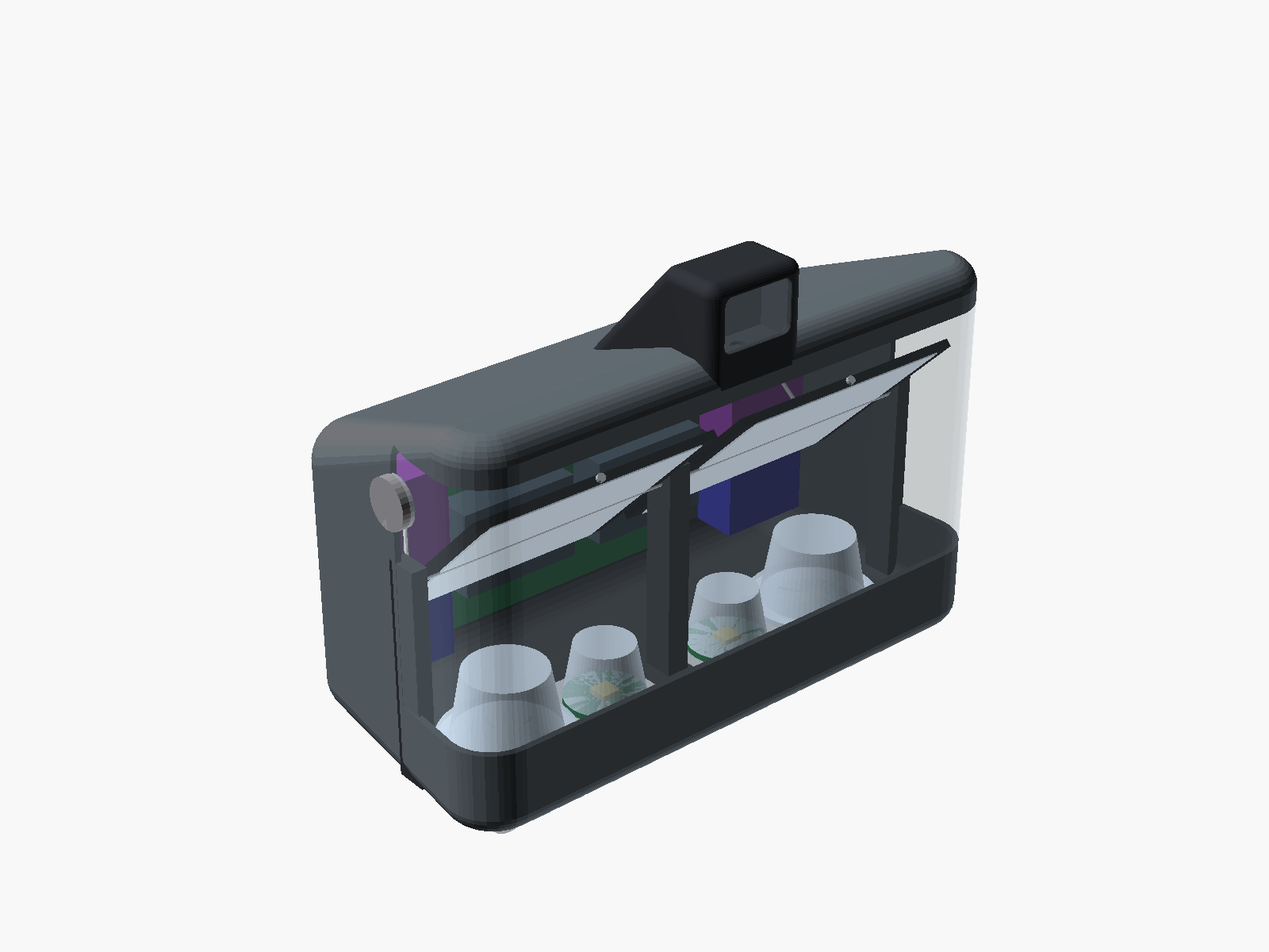
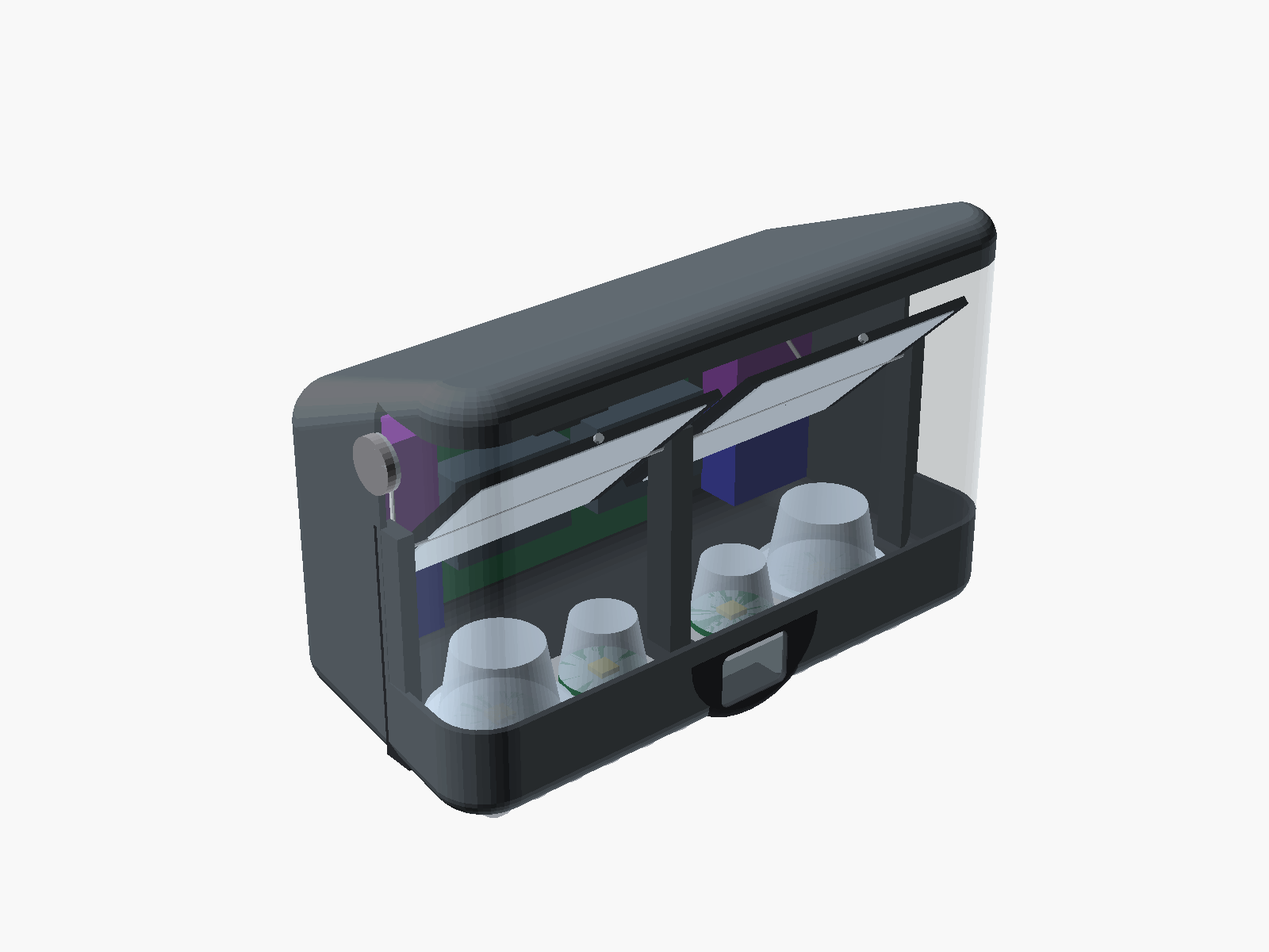
Move the lidar under the beams, behind a rounded chin
Owner review (2026-11-21): the roof pod looked like a box; move the lidar
underneath and round the casing into a hump.

- The TFS20-L now sits inside the nose, on the floor between the two
  modules and below the clear piece, looking out through its own window.
  The 12 mm gap between the heatsinks is too narrow, but the 15 mm strip
  ahead of the fins fits it.
- A shallow U-shaped chin (42 mm wide, 2 mm below the underside) keeps
  the window face flat over the rounded bottom edge and fairs into the
  underside on both sides; it ends ahead of the heatsink fins.
- Head height back to ~112 mm with the fins (128 mm at the roof pod);
  head ~331 g (the old pod was modelled solid, so part of the 10 g saving
  is the earlier figure overcounting). All C-PKG checks pass.
- New check C-PKG-19; B-THM-03 now measures the lidar inside the head.
- Design §5/§9, seal table, test plan, BOM, README, site and renders
  updated.

Changed region(s): [[0.2188, 0.2158, 0.8125, 0.8942], [0.3125, 0.8017, 0.3438, 0.8325]]

diff --git a/docs/index.html b/docs/index.html
@@ -185,7 +185,7 @@ footer p { margin: 0 0 8px; max-width: 80ch; }
     <div class="status">Concept design: nothing built or tested yet. Every figure is an estimate.</div>
   </div>
   <figure class="render" style="margin:0">
-    <img src="img/v4-three-quarter.png" alt="Packaging model of the head: a rounded light bar with two mirror modules side by side, a small lidar pod on the roof and one clear piece wrapping the front and sides" width="1600" height="1200">
+    <img src="img/v4-three-quarter.png" alt="Packaging model of the head: a rounded light bar with two mirror modules side by side, the lidar in a rounded chin under the beams and one clear piece wrapping the front and sides" width="1600" height="1200">
     <figcaption>Packaging model, layout v4 · OpenSCAD</figcaption>
   </figure>
 </header>
@@ -288,14 +288,14 @@ footer p { margin: 0 0 8px; max-width: 80ch; }
   <div class="wrap">
     <div class="eyebrow">Design · layout v4</div>
     <h2>A rounded light bar, about 150 mm wide</h2>
-    <p class="intro">The packaging model checks that everything fits, sweeps and stays under the weight limit before any part is bought. Layout v4 was chosen on 2026-11-21 over a single-mirror head (v3) with fixed cornering lights. After reviewing the renders the same day, a much smaller lidar moved to a pod on the roof, so the two modules sit side by side and the body narrowed from 200 to about 151 mm.</p>
+    <p class="intro">The packaging model checks that everything fits, sweeps and stays under the weight limit before any part is bought. Layout v4 was chosen on 2026-11-21 over a single-mirror head (v3) with fixed cornering lights. After reviewing the renders the same day, a much smaller lidar moved low into the nose, under the beams, so the two modules sit side by side and the body narrowed from 200 to about 151 mm.</p>
     <div class="gallery">
       <figure><div class="shot"><img src="img/v4-turning.png" alt="Model in a left turn: the left beam swung outward, the right beam straight ahead" loading="lazy" width="1600" height="1200"></div><figcaption><b>Left turn.</b> The left beam swings 25° out through the clear side; the right one stays straight.</figcaption></figure>
-      <figure><div class="shot"><img src="img/v4-top.png" alt="Top view in a left turn: left beam swung out, right beam straight" loading="lazy" width="1600" height="1200"></div><figcaption><b>From above, left turn.</b> Two modules side by side, the lidar pod on the roof and the servos in the back slot.</figcaption></figure>
+      <figure><div class="shot"><img src="img/v4-top.png" alt="Top view in a left turn: left beam swung out, right beam straight" loading="lazy" width="1600" height="1200"></div><figcaption><b>From above, left turn.</b> Two modules side by side around the centre post, and the servos in the back slot.</figcaption></figure>
       <figure><div class="shot"><img src="img/v4-cutaway.png" alt="Cut-away side view showing LED, optic, mirror and heatsink" loading="lazy" width="1600" height="1200"></div><figcaption><b>Cut-away.</b> LED facing up, optic, 45° mirror, heatsink floor.</figcaption></figure>
       <figure><div class="shot"><img src="img/v4-under.png" alt="Underside with two finned heatsinks" loading="lazy" width="1600" height="1200"></div><figcaption><b>Underneath.</b> Two aluminium heatsinks, fins fore-aft in the airflow.</figcaption></figure>
       <figure><div class="shot"><img src="img/v4-on-wheel.png" alt="The head mounted on a generic wheel for scale" loading="lazy" width="1600" height="1200"></div><figcaption><b>On a wheel.</b> Generic 16-inch shell, for scale.</figcaption></figure>
-      <figure><div class="shot"><img src="img/v4-front.png" alt="Front view of the head" loading="lazy" width="1600" height="1200"></div><figcaption><b>Front.</b> Low beam outside, spot inside, behind one curved clear piece; the lidar looks out of its roof pod.</figcaption></figure>
+      <figure><div class="shot"><img src="img/v4-front.png" alt="Front view of the head" loading="lazy" width="1600" height="1200"></div><figcaption><b>Front.</b> Low beam outside, spot inside, behind one curved clear piece; the lidar looks out of the rounded chin below them.</figcaption></figure>
       <figure><div class="shot"><img src="img/v4-exploded.png" alt="Exploded view: shell lifted off, clear piece and lidar forward, servos and board back, optics and heatsinks below" loading="lazy" width="1600" height="1200"></div><figcaption><b>Exploded.</b> Shell, clear piece, lidar, mirrors, servos and board, optics, heatsinks.</figcaption></figure>
     </div>
   </div>
@@ -341,8 +341,8 @@ footer p { margin: 0 0 8px; max-width: 80ch; }
       <div class="panel budget">
         <h3>Limits, with the lidar fitted</h3>
         <div class="meter">
-          <div class="row"><span>Head weight</span><span>~341 / 400 g</span></div>
-          <div class="bar" role="img" aria-label="341 of 400 grams"><i style="width:85.25%"></i><b></b></div>
+          <div class="row"><span>Head weight</span><span>~331 / 400 g</span></div>
+          <div class="bar" role="img" aria-label="331 of 400 grams"><i style="width:82.75%"></i><b></b></div>
           <small>Printed parts measured from the model; bought parts from datasheets. Only 1 g of margin: the custom PCB should win some back.</small>
         </div>
         <div class="meter">
@@ -368,7 +368,7 @@ footer p { margin: 0 0 8px; max-width: 80ch; }
     <div class="parts">
       <div class="part"><div class="role">Brain</div><div class="name">Seeed XIAO ESP32-S3</div><p>Control loop, BLE remote, Wi-Fi calibration page.</p></div>
       <div class="part"><div class="role">Sensor</div><div class="name">LSM6DSO32 IMU</div><p>6-axis, ±32 g, so crash detection doesn't saturate.</p></div>
-      <div class="part"><div class="role">Look-ahead</div><div class="name">Benewake TFS20-L lidar</div><p>A 1.35 g sensor in a roof pod that measures the road slope ahead. Optional: everything works without it.</p></div>
+      <div class="part"><div class="role">Look-ahead</div><div class="name">Benewake TFS20-L lidar</div><p>A 1.35 g sensor low in the nose that measures the road slope ahead. Optional: everything works without it.</p></div>
       <div class="part"><div class="role">Light</div><div class="name">4 × Cree XP-L HI</div><p>Two behind FILIPPA cutoff optics, two behind Carclo spots.</p></div>
       <div class="part"><div class="role">Drivers</div><div class="name">2 × BuckBlock 2.1 A</div><p>Run at full current if the MCU dies: the light stays on.</p></div>
       <div class="part"><div class="role">Steering</div><div class="name">4 × 5 g servos, 2 mirrors</div><p>Front-surface glass on printed two-axis gimbals.</p></div>

diff --git a/docs/design.md b/docs/design.md
@@ -3,7 +3,7 @@
 All figures are design estimates until they're verified on a prototype.
 The parts list with links is in [`../hardware/BOM.md`](../hardware/BOM.md).
 
-**Layout: v4 adopted (owner's decision, 2026-11-21).** Two mirror modules, each steering one FILIPPA low beam and one spot on a 2-axis gimbal (pitch for levelling, yaw for turns), four 5 g servos, the modules side by side around a centre post, one clear thermoformed piece wrapping the front and both sides, and a small TFS20-L lidar in a pod on the roof (since the owner's render review, 2026-11-21: body about 151 mm wide, owner's target 150 mm). No cornering lights, toe-out wedges or brow. The v4 layout, its checks and its turning behaviour are in §5 ("v4"). Earlier sections still describe v3's single mirror, cornering lights and toe-out where marked *(v3)*; they're kept as the record of how the design got here.
+**Layout: v4 adopted (owner's decision, 2026-11-21).** Two mirror modules, each steering one FILIPPA low beam and one spot on a 2-axis gimbal (pitch for levelling, yaw for turns), four 5 g servos, the modules side by side around a centre post, one clear thermoformed piece wrapping the front and both sides, and a small TFS20-L lidar low in the nose, under the beams (since the owner's render review, 2026-11-21: body about 151 mm wide, owner's target 150 mm). No cornering lights, toe-out wedges or brow. The v4 layout, its checks and its turning behaviour are in §5 ("v4"). Earlier sections still describe v3's single mirror, cornering lights and toe-out where marked *(v3)*; they're kept as the record of how the design got here.
 
 **Firm constraints** (owner's decision, 2026-11-20). Changing one needs the owner's approval:
 - Only the mirrors move. The LEDs and heatsinks stay fixed.
@@ -227,7 +227,7 @@ Sources: [EUC forum: charging a laptop from a wheel](https://forum.electricunicy
 
 *v4 at 150 mm: owner's review of the renders (2026-11-21).* The owner reviewed the v4 renders and decided:
 - **Width:** the body should be narrower, ideally **150 mm** wide (owner's target, not a firm constraint).
-- **Lidar:** the **Benewake TFS20-L** replaces the TF02-Pro, in a **small pod on the roof** (§9). With no lidar bay between them, the two mirror modules sit side by side.
+- **Lidar:** the **Benewake TFS20-L** replaces the TF02-Pro (§9). With no lidar bay between them, the two mirror modules sit side by side. It first went in a small pod on the roof; the owner then had it moved **under the beams**, behind a rounded chin (below).
 - **Clear sides stay fully clear**, showing the mechanism. One piece now runs across the whole front and round both corners, about 200 mm developed length.
 - **The exposed fins under the body are fine.**
 - **An exploded view** is added to the renders.
@@ -240,10 +240,17 @@ What changed in the model (`cad/headlight-v4.scad`):
   - Body taper 8 → 4 mm each side, so the gimbal frames' rear-outer corners clear the side walls.
   - Clear-corner radius 18 → 12 mm (still easy to drape-form in 1.5 mm PC), so the frames' front-outer corners clear the corner.
   - Front clearance 4 → 5 mm. The stricter skin check found each mirror's outer end touching the inside of the front wall at full outward yaw and forward tilt. The 200 mm model had the same touch, hidden because the check only looked at the outer skin.
-- **Stricter skin check (C-PKG-18):** optics, servos, board and mirrors are now checked against the inner skin, so they also clear the wall. The lidar is checked against its pod.
-- **Model result:** about **151 × 72 × 95 mm** body, down from 200 mm, and 112 mm tall with the heatsink fins. The roof pod is 26 mm wide and 46 mm long (faired into the roof), and adds about 18 mm of height at the front of the roof. Head mass is **~341 g** with the lidar (C-MASS-01), down from ~399 g: about 48 g from the lidar and 10 g from the smaller shell.
+- **Stricter skin check (C-PKG-18):** optics, servos, board and mirrors are now checked against the inner skin, so they also clear the wall. The lidar is checked against the outer skin (body plus chin), since its window cuts through the wall.
+- **Model result:** about **151 × 72 × 95 mm** body, down from 200 mm, and 112 mm tall with the heatsink fins. With the lidar under the beams nothing rises above the roof (the roof pod first tried added 18 mm). Head mass is **~331 g** with the lidar (C-MASS-01), down from ~399 g: about 48 g from the lidar, 10 g from the smaller shell, and 10 g from dropping the roof pod first tried (the model drew that pod as solid plastic round the lidar, so part of the last 10 g is the earlier figure overcounting).
 - **What sets the width now:** the two gimbals, the centre post and the outer posts, not the beams. The last millimetre to 150 would come from the outer posts; the 2.5° trim no longer affects the width.
-- **Checks:** C-PKG-14 and 16 are retired (they checked the lidar bay). C-PKG-15 now checks that the spots' light clears the centre post. C-PKG-18 checks the skin with the pod included.
+- **Checks:** C-PKG-14 and 16 are retired (they checked the lidar bay). C-PKG-15 now checks that the spots' light clears the centre post. C-PKG-18 checks the skin with the chin included. New C-PKG-19 checks the lidar in the nose (below).
+
+*Lidar under the beams (owner, 2026-11-21).* After seeing the roof pod as a box on the roof, the owner asked for the lidar to go underneath, with the casing rounded round it into a hump rather than a box.
+- **Where it fits:** the 12 mm gap between the two heatsinks is too narrow for the 21 mm sensor, but the strip of floor between the heatsink fins and the front wall is 15 mm deep. The lidar sits there, **inside the body** on the floor, centred between the modules and below the clear piece, looking out through its own small window in the front wall.
+- **The hump:** the body's bottom front edge is rounded (6 mm), which would cut across the bottom of the window. A shallow **chin**, a U shape seen from the front (about 42 mm wide, 10 mm deep, 2 mm below the underside), keeps the window face flat and fairs into the underside on both sides. It ends just ahead of the heatsink fins and stays far above their 16.5 mm depth, so the head is no taller: about **112 mm with the fins**, against 128 mm at the roof pod.
+- **Gains:** no roof pod or cable hole to seal (the lidar is inside the sealed body, behind one gasketed window), shaded from the sun, and a clean roof.
+- **Costs:** the lidar is now inside the head with the LED boards (spot optics about 8 mm away) and in front of the heatsinks, so its 60 °C limit depends on the internal air (B-THM-03 now measures it there). It sits about 110 mm lower, so the ray meets the road at a slightly shallower angle; the firmware learns the height `h` at calibration, so nothing changes there.
+- **C-PKG-19:** the lidar clears the spot optics, leaves at least 4 mm of wall between its window and the clear piece above it, and its chin ends ahead of the heatsink fins.
 
 **Waterproofing and vibration review (2026-11-21, v3 and v4).**
 
@@ -256,7 +263,7 @@ What changed in the model (`cad/headlight-v4.scad`):
 | Heatsink opening(s) in the floor, O-ring | 1 | 2 |
 | Service cover (top or back), O-ring | 1 | 1 |
 | Main window(s), gasket in bezel | 1 | 2 |
-| Lidar | in the brow, own gasket | roof pod window, gasket (TFS20-L isn't IP-rated, so the pod is sealed) |
+| Lidar | in the brow, own gasket | small window in the nose under the clear piece, gasket (TFS20-L isn't IP-rated, so it sits inside the sealed body) |
 | Cornering-light windows | 2 | 0 |
 | Gland, vent, button | 3 | 3 |
 | Total static seal length (model) | ~0.7 m | ~1.25 m |
@@ -277,7 +284,7 @@ v4 has fewer separate openings but about 80% more seal length, so more places fo
 - **5 g servos** have weaker, often plastic, gears. Metal-gear versions are preferred, with the 12 g ES08MD II as the fallback if B-MIR-02/05 show jitter.
 - **Electronics:** heavy parts (BuckBlocks, capacitors, the Pololu) held down with silicone; wires strain-relieved; the XIAO soldered rather than socketed; the STEMMA QT plug glued after test.
 - **Fasteners:** LED boards and metal parts with low-strength threadlocker. **Never threadlocker near the polycarbonate window or the PMMA optics**, because anaerobic threadlockers crack them; use nylon-insert nuts or screws with a nylon patch there.
-- **Lidar:** v3's TF02-Pro is clamped on a foam gasket and is IP65 itself. v4's TFS20-L isn't rated, so it sits behind a gasketed window in the sealed roof pod.
+- **Lidar:** v3's TF02-Pro is clamped on a foam gasket and is IP65 itself. v4's TFS20-L isn't rated, so it sits inside the sealed body, behind a gasketed window in the nose.
 - **Mount:** the 1/4"-20 joint can loosen under vibration: a lock washer on the metal adapter, and the leash always.
 
 *Verdict:* both layouts can be made waterproof to IP65 and vibration-resistant, because nothing moving passes through a wall. v4 carries more risk on both counts (longer seals, two-axis gimbals) and needs its extra tests passed before a ride.
@@ -383,12 +390,12 @@ Seven LEDC channels are used (four servos, two DIM, the ring LED) of the ESP32-S
 - **Range:** 0.2–9 m at 10% reflectivity in 100 klux sunlight, 12 m in the dark (TF02-Pro: 13.5 m). The aim point is about 8 m ahead, so the margin is thin; Benewake's datasheet versions disagree, and these are the more cautious figures.
 - **Other specs:** 100 Hz default (up to 250 Hz), FoV under 2°, 905 nm VCSEL, Class 1 eye-safe, -20 to +60 °C.
 - **Supply and interface:** 3.3 V only (not 5 V), ≤ 0.43 W, peak under 130 mA. I²C at address 0x10 by default, with 3.3 V logic like the XIAO, so the one-time UART mode switch the TF02-Pro needed goes away.
-- **Mounting:** on the **body** (never the mirror), in a small pod at the front of the roof, aimed about 3–5° below the beam axis.
-  - It has **no IP rating**, so it sits inside the sealed head behind its own small clear window, cut from the polycarbonate sheet and gasketed into the pod.
+- **Mounting:** on the **body** (never the mirror), low in the nose: on the floor between the two modules, below the clear piece, aimed about 3–5° below the beam axis (on the roof until the owner moved it under, 2026-11-21; §5). The model draws it level; the 3–5° wedge in its printed seat isn't modelled.
+  - It has **no IP rating**, so it sits inside the sealed head behind its own small clear window, cut from the polycarbonate sheet and gasketed into the front wall over a shallow rounded chin.
   - A divider between the two lenses, touching the window, stops the window reflecting the laser straight back into the receiver.
   - Range through the window is to be measured on the bench (B-LID-02).
-- **Lens face to check:** the model assumes the lenses are on the 21 × 15 face, which makes the pod about 18 mm tall. Check Benewake's dimension drawing before the pod is printed. If the lenses are on the 21 × 7.9 face, the pod can be about 7 mm lower.
-- **Temperature:** the pod is away from the heatsinks, but the 60 °C limit applies inside it on a hot, sunny day. To check in B-THM-03.
+- **Lens face to check:** the model assumes the lenses are on the 21 × 15 face, which makes the window 15 mm tall and needs the chin. Check Benewake's dimension drawing before the shell is printed. If the lenses are on the 21 × 7.9 face, the window is only 8 mm tall but the sensor is 15 mm deep, which reaches back over the heatsinks' front edge: C-PKG-19 has to be re-run and the seat moved.
+- **Temperature:** under the beams it's shaded from the sun, but it shares the head's internal air with the LED boards and sits just ahead of the heatsinks. The 60 °C limit applies there; to check in B-THM-03.
 - **Alternatives rejected:**
   - TFmini Plus: only about 4 m at 10% reflectivity.
   - TF-Luna: 2.5 m at 10%.
@@ -428,7 +435,7 @@ Seven LEDC channels are used (four servos, two DIM, the ring LED) of the ESP32-S
 - [ ] Hobby servo deadband and jitter after the 4:1 linkage. Is a gimbal BLDC needed (GBM2804 + SimpleFOC + AS5600)?
 - [ ] Does the ASA housing stay sealed over thermal cycles? Long-term creep at the screw bosses?
 - [ ] Real TFS20-L range and dropout rate on wet and dry asphalt at about 4° grazing angle, through its window (B-LID-01, B-LID-02). Only about 9 m at 10% in sunlight on paper, against an ~8 m aim point.
-- [ ] TFS20-L lens face (21 × 15 or 21 × 7.9) from the dimension drawing: sets the roof pod height.
+- [ ] TFS20-L lens face (21 × 15 or 21 × 7.9) from the dimension drawing: sets the window and chin in the nose (C-PKG-19).
 - [ ] Head weight on VHB mounts. Is the leash mandatory?
 - [ ] Two-axis gimbal backlash and ringing under EUC vibration (v4, B-MIR-05); 5 g servo gear durability.
 - [ ] Power-on flash: DIM floats until the firmware drives the 2N3904s, so both channels start at 2.1 A. Base pull-ups would stop it, but they also turn the light off if the MCU dies, which loses the full-on failsafe. Accept the flash, or find a way to keep both (e.g. an RC that holds the transistor on only for the first second)?
@@ -438,7 +445,7 @@ Seven LEDC channels are used (four servos, two DIM, the ring LED) of the ESP32-S
 - [ ] P6KE27A clamps at ~37.5 V, above the BuckBlock's 32 V maximum. Low risk with a 20 V bank, but a lower-clamp TVS would cover it.
 - [x] Cost over the limit: about $290 core + $98 lidar ≈ $388, against a $350 ceiling. Resolved 2026-11-20: the owner raised the limit to $450, so no parts change.
 - [x] **The flood has no cutoff.** Resolved 2026-11-21: the owner chose two LEDiL FILIPPA-STVZO cutoff optics with XP-L HI as the low beam (§3). A shield or masked mirror edge was rejected because a TIR beam isn't an image, so blocking part of it only dims it without making a sharp edge.
-- [ ] **Head weight against the 400 g limit** (raised from 350 g, owner, 2026-11-21): ~399 g with the TF02-Pro for v4 at 200 mm; ~341 g at 151 mm with the TFS20-L (2026-11-21), 59 g of margin (v3 was ~401 g). The custom PCB should add ~20 g of margin; the part masses are estimates until weighed (E-MNT-01).
+- [ ] **Head weight against the 400 g limit** (raised from 350 g, owner, 2026-11-21): ~399 g with the TF02-Pro for v4 at 200 mm; ~331 g at 151 mm with the TFS20-L under the beams (2026-11-21), 69 g of margin (v3 was ~401 g). The custom PCB should add ~20 g of margin; the part masses are estimates until weighed (E-MNT-01).
 - [ ] Heatsink sized for moving air (§8): confirm the riding temperature and the parked derating on the bench (B-THM-01).
 - [ ] FILIPPA with XP-L HI: focus height, cutoff sharpness and cutoff orientation are not in LEDiL's data. Bench tests B-OPT-05 and B-OPT-06.
 - [ ] Larger mirror (115 × 55 mm, about 5× the moment of inertia): does the servo still settle in under 50 ms (B-MIR-01)?
@@ -446,5 +453,5 @@ Seven LEDC channels are used (four servos, two DIM, the ring LED) of the ESP32-S
 - [x] ~~Cornering-light glare and the toed-out cutoff tilt (B-CRN-01, B-OPT-08)~~ v3 only; v4 has neither (2026-11-21).
 - [ ] v4 turn steering: write the yaw rule into the firmware spec (the ride demo aims the turn-side beam at the road 20 m ahead, up to 25°) and the safety invariant that goes with it.
 - [x] Speed source for v4 (high-beam width and turn steering): estimated from the IMU, with resets when still and corrections in turns (owner's decision, 2026-11-21; firmware-spec §12). Its accuracy on long straights is checked in R-SPD-01.
-- [x] v4 with no inward yaw: narrow the body (§5). Done 2026-11-21 with the TFS20-L roof pod: ~151 mm, checks and mass re-run.
+- [x] v4 with no inward yaw: narrow the body (§5). Done 2026-11-21 with the TFS20-L (now under the beams): ~151 mm, checks and mass re-run.
 - [x] How calibration and settings are controlled: a calibration page over the head's own Wi-Fi, with the button and remote kept as a full fallback (decided 2026-11-21; firmware-spec §11).

diff --git a/hardware/BOM.md b/hardware/BOM.md
@@ -1,11 +1,11 @@
 # EUC Stabilized Headlight – Bill of Materials (v4)
 
-Version: layout v4 (adopted 2026-11-21): XIAO ESP32-S3, 3D-printed ASA housing with two aluminium heatsinks and one thermoformed polycarbonate piece wrapping the front and both sides, external USB-C PD power bank, two mirrors on 2-axis gimbals driven by four servos side by side, optional road-slope lidar (TFS20-L in a roof pod).  
+Version: layout v4 (adopted 2026-11-21): XIAO ESP32-S3, 3D-printed ASA housing with two aluminium heatsinks and one thermoformed polycarbonate piece wrapping the front and both sides, external USB-C PD power bank, two mirrors on 2-axis gimbals driven by four servos side by side, optional road-slope lidar (TFS20-L low in the nose).  
 Prices: approximate USD street prices, Nov 2026. **Check the live pages before ordering.** Links marked *search* go to a marketplace search because those parts are commodity items with many equivalent sellers.
 
 ## Changes since the last design
 
-- **150 mm body and a smaller lidar (owner, 2026-11-21):** the Benewake TFS20-L (21 × 15 × 7.9 mm, 1.35 g, 3.3 V I²C) replaces the TF02-Pro and moves to a small pod on the roof, so the two mirror modules sit side by side and the body narrows to about 151 mm. One clear piece now wraps the whole front. About $39 less with the lidar.
+- **150 mm body and a smaller lidar (owner, 2026-11-21):** the Benewake TFS20-L (21 × 15 × 7.9 mm, 1.35 g, 3.3 V I²C) replaces the TF02-Pro and moves out of the middle of the front (first to a roof pod, then, the same day, low in the nose under the beams), so the two mirror modules sit side by side and the body narrows to about 151 mm. One clear piece now wraps the whole front. About $39 less with the lidar.
 - **Layout v4 (2026-11-21):** two mirrors on 2-axis gimbals and four servos replace the single mirror and servo. The cornering lights, their drivers and optics, the toe-out wedges and the brow are gone. The flat window becomes two thermoformed polycarbonate wraparound pieces. Net about +$26 per unit.
 - **LED driver:** the Mean Well LDD-1500H is discontinued, so it's replaced by the **LEDdynamics BuckBlock A009-D-V-2100**. It's dimmable and rated 2.1 A. Firmware caps it at about 1.5 A in normal mode and allows 2.1 A in a time-limited boost mode.
 - **Dimming flicker:** BuckBlock PWM is specified at 200 Hz, which would flicker visibly on a moving wheel. Instead, the 2N3904 interface runs at about 20 kHz with a 10 µF cap on DIM, which turns it into smooth analog dimming. Verify this on the bench.
@@ -116,8 +116,8 @@ Prices: approximate USD street prices, Nov 2026. **Check the live pages before o
 
 | Item | Part / spec | Qty | Unit $ | Ext $ | Source | Notes |
 |---|---|---|---|---|---|---|
-| Lidar | Benewake TFS20-L, 21 × 15 × 7.9 mm, 1.35 g, 0.2–9 m @10% reflectivity in 100 klux sun (12 m in the dark), I²C/UART, 3.3 V | 1 | 55.00 | 55.00 | [link](https://en.benewake.com/TFS20L/index.html) | Owner's choice, 2026-11-21 (replaces the TF02-Pro). Price estimated from an AU$85 listing; also sold by GetFPV, DFRobot (SEN0672), Mouser. Not IP-rated: it sits behind its own window in the sealed roof pod. 3.3 V only, on the shared I²C bus |
-| Lidar window gasket + screws | EPDM foam gasket strip 3 mm + M2 stainless screws (window cut from the clear-side sheet) | 1 | 4.00 | 4.00 | [search](https://www.amazon.com/s?k=EPDM+foam+gasket+tape+3mm) | Seals the pod window; a divider between the lenses stops the window reflecting the laser back |
+| Lidar | Benewake TFS20-L, 21 × 15 × 7.9 mm, 1.35 g, 0.2–9 m @10% reflectivity in 100 klux sun (12 m in the dark), I²C/UART, 3.3 V | 1 | 55.00 | 55.00 | [link](https://en.benewake.com/TFS20L/index.html) | Owner's choice, 2026-11-21 (replaces the TF02-Pro). Price estimated from an AU$85 listing; also sold by GetFPV, DFRobot (SEN0672), Mouser. Not IP-rated: it sits inside the sealed body, behind its own window in the nose. 3.3 V only, on the shared I²C bus |
+| Lidar window gasket + screws | EPDM foam gasket strip 3 mm + M2 stainless screws (window cut from the clear-side sheet) | 1 | 4.00 | 4.00 | [search](https://www.amazon.com/s?k=EPDM+foam+gasket+tape+3mm) | Seals the lidar window; a divider between the lenses stops the window reflecting the laser back |
 | **Subtotal** | | | | **59.00** | | |
 
 ### Cheaper remote alternative (replaces section G)
@@ -158,7 +158,7 @@ For firmware and bench testing before the protoboard or any PCB. Most of it is t
 | Electronics tray | ASA, holds the protoboard, BuckBlocks, Pololu |
 | Mount boss | ASA, on the back of the body, holds the 1/4"-20 insert |
 | Remote case | ASA or TPU, 2 buttons + strap slots |
-| Lidar pod (if section H) | ASA hump on the front of the roof (~26 mm wide, 46 mm long faired, 18 mm tall), TFS20-L aimed ~3–5° below the beam axis behind a gasketed window; printed as part of the body |
+| Lidar seat and chin (if section H) | Seat on the floor in the nose, between the modules and below the clear piece; a shallow rounded chin (~42 mm wide, 2 mm below the underside) keeps its window face flat. TFS20-L aimed ~3–5° below the beam axis behind a gasketed window; printed as part of the body |
 
 ## Cost summary
 

diff --git a/docs/test-plan.md b/docs/test-plan.md
@@ -161,12 +161,13 @@ Each check's message in `cad/headlight.scad` or `cad/weight.py` starts with its 
 | C-PKG-11 | The sloping roof leaves the electronics board at least 45 mm tall | Board height ≥ 45 mm | Pass (v3), 2026-11-21 |
 | C-PKG-12 | The servo fits inside the rounded, tapered tail | Servo inside the tail's inner wall | Pass (v3), 2026-11-21 |
 | C-PKG-13 | The electronics board fits the flat part of the tail | Board width ≥ 55 mm | Pass (v3), 2026-11-21 |
-| C-PKG-14 | v4 only: the lidar on its side fits inside the body | Lidar top below the inner roof | Retired 2026-11-21: the lidar moved to a roof pod (C-PKG-18 covers it) |
+| C-PKG-14 | v4 only: the lidar on its side fits inside the body | Lidar top below the inner roof | Retired 2026-11-21: the lidar moved out of the bay (C-PKG-18 and C-PKG-19 cover it) |
 | C-PKG-15 | v4 only: each spot's light column, from LED to mirror, clears the centre post that holds the inner pitch shafts (until 2026-11-21: beam clears the lidar bay) | Inner edge of the column outside the post | Pass at 151 mm, 2026-11-21 |
 | C-PKG-16 | v4 only: the gimbal frames clear the lidar bay | No overlap | Retired 2026-11-21: no lidar bay (the frames clear the centre post by construction) |
 | C-PKG-17 | v4 with clear wrap: the clear side stops ahead of the servo slot | Wrap ends in front of the back slot | Pass (study), 2026-11-21 |
-| C-PKG-18 | v4: no internal part (optics, servos, electronics, lidar in its roof pod, mirrors at every corner of their pitch and yaw travel) pokes into the wall: checked against the inner skin since 2026-11-21 (the lidar against the outer skin of its roof pod) | Nothing left outside (`cad/fit-v4.scad`) | Pass at 151 mm (inner skin), 2026-11-21 |
-| C-MASS-01 | Head mass with the lidar, printed parts measured from the model's STL volumes, bought parts from datasheets | ≤ 400 g | See `cad/renders/checks.txt`; ~341 g for v4 at 151 mm with the TFS20-L, 2026-11-21 (v3: ~401 g) |
+| C-PKG-18 | v4: no internal part (optics, servos, electronics, lidar in the nose, mirrors at every corner of their pitch and yaw travel) pokes into the wall: checked against the inner skin since 2026-11-21 (the lidar against the outer skin, body plus chin, since its window cuts the wall) | Nothing left outside (`cad/fit-v4.scad`) | Pass at 151 mm (inner skin), 2026-11-21 |
+| C-PKG-19 | v4: the lidar in the nose (since 2026-11-21) clears the spot optics, leaves at least 4 mm of wall between its window and the clear piece, and its chin ends ahead of the heatsink fins | All three hold (`cad/headlight-v4.scad` asserts) | Pass at 151 mm, 2026-11-21 |
+| C-MASS-01 | Head mass with the lidar, printed parts measured from the model's STL volumes, bought parts from datasheets | ≤ 400 g | See `cad/renders/checks.txt`; ~331 g for v4 at 151 mm with the TFS20-L under the beams, 2026-11-21 (v3: ~401 g) |
 
 ## Bench tests (`B-`)
 
@@ -224,13 +225,13 @@ Each check's message in `cad/headlight.scad` or `cad/weight.py` starts with its 
 |---|---|---|---|
 | B-THM-01 | Heatsink rise in still air, at walking pace and at 25 km/h, with the airflow along the fins (fore-aft) | Within 25% of design §8 | – |
 | B-THM-02 | NTC reading against a thermocouple | Within 3 °C | – |
-| B-THM-03 | v4: lidar pod temperature, parked in sun at full power then riding, with a thermocouple by the TFS20-L | Stays below 60 °C (TFS20-L rating) | – |
+| B-THM-03 | v4: lidar temperature inside the head (in the nose, near the LED boards and ahead of the heatsinks since 2026-11-21), parked in sun at full power then riding, with a thermocouple on the TFS20-L | Stays below 60 °C (TFS20-L rating) | – |
 | B-SLP-01 | Sleep current and wake on motion | Wakes on a nudge; sleep current recorded | – |
 | B-REM-01 | DIY nRF52840 remote | Press-to-action latency ≤ 100 ms; battery life estimate recorded | – |
 | B-REM-02 | Cheap BLE shutter remote | First-press-after-sleep behaviour recorded | – |
 | B-CFG-01 | Calibration page on an iPhone and an Android phone | Joins the hotspot, shows live pitch, runs steps A–D and saves; every step also works with button and remote only | – |
-| B-LID-01 | TFS20-L (TF02-Pro until 2026-11-21) on dry and wet asphalt at a grazing angle of about 4°, in its pod behind the window | Usable range and dropout rate recorded | – |
-| B-LID-02 | TFS20-L through its polycarbonate pod window, with the lens divider, against bare: a 10% target in daylight | Range at least 8 m through the window; no false close returns from the window | – |
+| B-LID-01 | TFS20-L (TF02-Pro until 2026-11-21) on dry and wet asphalt at a grazing angle of about 4°, in the nose behind its window | Usable range and dropout rate recorded | – |
+| B-LID-02 | TFS20-L through its polycarbonate window in the nose, with the lens divider, against bare: a 10% target in daylight | Range at least 8 m through the window; no false close returns from the window | – |
 
 ## Enclosure and mount tests (`E-`)
 

diff --git a/cad/README.md b/cad/README.md
@@ -22,7 +22,7 @@ To explore, open `headlight.scad` in OpenSCAD and change `view` (`assembly`, `cu
 | `under.png` | From below: the heatsink fins running fore-aft |
 | `front.png` | Front, orthographic |
 | `cutaway.png`, `cutaway-up.png`, `cutaway-down.png` | Section through the middle at nominal and full mirror tilt |
-| `exploded.png` | Heatsink, optics, mirror, electronics, body, window, lidar pod |
+| `exploded.png` | Heatsink, optics, mirror, electronics, body, window, lidar |
 | `no-lidar.png` | Assembled head without the lidar |
 | `side.png`, `top.png` | Side and top profiles, orthographic: the tapered, sloping v3 shape |
 | `rear-quarter.png` | From behind: tail, mount boss, gland and vent |
@@ -30,7 +30,7 @@ To explore, open `headlight.scad` in OpenSCAD and change `view` (`assembly`, `cu
 
 ## Layout v4 (adopted 2026-11-21)
 
-`headlight-v4.scad` models the adopted layout: two independent 2-axis mirror modules side by side around a centre post, a TFS20-L lidar in a small pod on the roof, and one curved clear piece across the whole front and round both corners (`wrap_sides = true`, the default; the flat front was dropped on 2026-11-21, the lidar bay on 2026-11-21 for a ~151 mm body). No cornering lights or brow. `render.sh` renders it as `renders/v4-*.png`, including an exploded view and writes its mass to `renders/mass-v4.txt`; its C-PKG checks and mass set the exit status, and v3's mass is reported only. Extra variables: `yaw` (outward-positive), `yaw_l` and `yaw_r` to swing one side only (the turn renders swing the left one), `yaw_in_max` (the inward aim trim), `yaw_out_max`, `r_wrap`, `wrap_side_min`, `post_w`, `pivot_boss`, `lidar` (envelope). `fit-v4.scad` checks against `skin_outer()`, the body plus the roof pod.
+`headlight-v4.scad` models the adopted layout: two independent 2-axis mirror modules side by side around a centre post, a TFS20-L lidar low in the nose under the beams (behind a rounded chin; on the roof until later the same day), and one curved clear piece across the whole front and round both corners (`wrap_sides = true`, the default; the flat front was dropped on 2026-11-21, the lidar bay on 2026-11-21 for a ~151 mm body). No cornering lights or brow. `render.sh` renders it as `renders/v4-*.png`, including an exploded view and writes its mass to `renders/mass-v4.txt`; its C-PKG checks and mass set the exit status, and v3's mass is reported only. Extra variables: `yaw` (outward-positive), `yaw_l` and `yaw_r` to swing one side only (the turn renders swing the left one), `yaw_in_max` (the inward aim trim), `yaw_out_max`, `r_wrap`, `wrap_side_min`, `post_w`, `pivot_boss`, `lidar` (envelope). `fit-v4.scad` checks against `skin_outer()`, the body plus the lidar chin; C-PKG-19 asserts the lidar's fit in the nose (`chin_drop`, `chin_blend` shape the chin).
 
 ## Results (2026-11-21)
 

diff --git a/CHANGELOG.md b/CHANGELOG.md
@@ -6,6 +6,7 @@ All notable changes to this project are listed here. The format follows [Keep a 
 
 ### Added
 - Owner's render review (2026-11-21): v4 body narrowed from 200 to ~151 mm (target 150). The Benewake TFS20-L lidar (1.35 g, 3.3 V) replaces the TF02-Pro in a small roof pod, the modules sit side by side around a centre post, one clear piece wraps the whole front, inward yaw is cut to a 2.5° aim trim, and an exploded render is added. Head ~341 g (was ~399 g), material cost ~$401 with the lidar (was ~$440). C-PKG-18 now checks against the inner skin, which found and fixed a mirror end touching the front wall; body taper 4 mm, clear-corner radius 12 mm, front clearance 5 mm. BOM, bench kit (two BuckBlocks, a TFS20-L), design §5/§9, firmware-spec §8 and tests C-PKG-14..16/18, B-LID-02, B-THM-03 updated. Mirror-damping options recorded as an open question.
+- Lidar moved under the beams (owner, 2026-11-21): the TFS20-L now sits inside the nose, on the floor between the modules and below the clear piece, behind its own window over a shallow rounded chin, instead of in a roof pod. Head height back to ~112 mm with the fins (128 mm at the pod), head ~331 g. New check C-PKG-19; B-THM-03 now measures the lidar inside the head.
 - Proposal: high beam widened at low speed by swinging the two spots apart (up to 5° each, narrowing by 40 km/h), firmware-spec §12; speed estimated from the IMU (owner's decision), with resets when still and corrections in turns. Ride demo shows it.
 - Site and README say the project is a concept design and invite ideas as GitHub issues rather than builds.
 - GitHub Pages serves `docs/`, so the README's demo link opens the live page (`docs/.nojekyll` serves the files as they are).

diff --git a/README.md b/README.md
@@ -50,7 +50,7 @@ Top view of the head (layout v4, front at the top):
    │   ╲  mirror  ╱    ┃      ┃    ╲  mirror  ╱            │
    │  2 servos ──── electronics board ──── 2 servos        │
    ╰── left module ────────────────────── right module ────╯
-     lidar (TFS20-L) in a small pod on the roof, at the front
+     lidar (TFS20-L) low in the nose, under the beams, behind a rounded chin
         aluminium heatsink floors, fins fore-aft
                 1/4"-20 mount on the back
 ```
@@ -64,8 +64,8 @@ Top view of the head (layout v4, front at the top):
 | Low beam (cutoff) at 10 m | ~62 lux | ~81 lux |
 | Input power | ~21 W | ~30 W |
 | Runtime on a 20 Ah bank (~50 Wh usable at 15 V) | ~2.4 h | ~1.7 h |
-| Head weight (limit: 400 g with lidar) | ~341 g with lidar (packaging model, measured shell; 59 g of margin, see design §10) | |
-| Head size | ~151 × 72 × 112 mm, a rounded light bar (~128 mm tall at the lidar pod) | |
+| Head weight (limit: 400 g with lidar) | ~331 g with lidar (packaging model, measured shell; 69 g of margin, see design §10) | |
+| Head size | ~151 × 72 × 112 mm with the fins, a rounded light bar (nothing on the roof) | |
 | Material cost per unit (limit: $450 with lidar) | ~$401 with the lidar, + power bank (~$342 without the lidar) | |
 
 The low-beam figures were estimated with v3's 4° toe-out; v4 aims both low beams straight ahead outside turns, so the centre should be a little brighter.

diff --git a/docs/build-plan.md b/docs/build-plan.md
@@ -26,7 +26,7 @@ Goal: a parametric model and renders of the whole head prove it fits, sweeps and
 - [x] Layout v3: aerodynamic tapered shape and lean package; printed parts measured from the model
 - [x] Layout v4 study: two 2-axis mirrors, lidar in the body, no cornering lights or brow (~410 g)
 - [x] Owner decision: v4 adopted, with one clear wraparound piece per side (2026-11-21)
-- [x] Owner review of the renders (2026-11-21): narrow the body (target ~150 mm), fins fine, sides stay clear, add an exploded view. Done with the TFS20-L lidar in a roof pod: ~151 mm body, design §5 updated
+- [x] Owner review of the renders (2026-11-21): narrow the body (target ~150 mm), fins fine, sides stay clear, add an exploded view. Done with the TFS20-L lidar, moved low into the nose under the beams: ~151 mm body, design §5 updated
 
 ## Phase 2: Firmware core on the bench
 
@@ -97,7 +97,7 @@ Goal: the mirror size and window height are proven before CAD fixes them.
 ## Phase 8: Optional road-slope lidar
 
 - [ ] Lidar rules in firmware (U-LID)
-- [ ] Range through the pod window, then dropouts on real asphalt (B-LID-02, B-LID-01); pod temperature (B-THM-03)
+- [ ] Range through the nose window, then dropouts on real asphalt (B-LID-02, B-LID-01); lidar temperature inside the head (B-THM-03)
 - [ ] Ride test at crests, dips and obstacles (R-LID-01)
 
 ## Phase 9: Custom PCB
